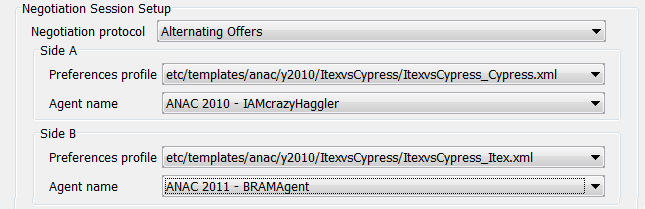
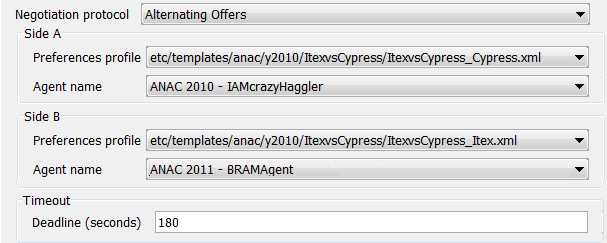
Finished first three sections

diff --git a/doc/userguide.tex b/doc/userguide.tex
@@ -292,7 +292,7 @@ This section discusses how to run a negotiation. There are three main modes to r
 	\item \textbf{Distributed tournament}. A distributed tournament is a tournament which is stored in a database and can therefore be divided among multiple computers to speed up calculation.
 \end{itemize}
 
-Before going into detail on how each of these modes work, we first discuss the two types of agents which can be used: automated agents and non-automated agents. Automated agents are agents which can compete against other agents in a negotiation without relying on input by a user. In general, these agents are able to make a large amount of bids in a limited amount of time.
+Before going into detail on how each of these modes work, we first discuss the two types of agents that can be used: automated agents and non-automated agents. Automated agents are agents that can compete against other agents in a negotiation without relying on input by a user. In general, these agents are able to make a large amount of bids in a limited amount of time.
 
 In contrast, non-automated agents are agents that are fully controlled by the user. These types of agents ask the user each round which action they should make. \Genius~by default includes the UIAgent -- which has a simple user interface -- and the more extensive Extended UIAgent.
 
@@ -301,57 +301,64 @@ In contrast, non-automated agents are agents that are fully controlled by the us
 To run a negotiation session select ``Start'' and then ``Negotiation Session''. This opens a window similar to Figure~\ref{Fig:session}. The following parameters need to be specified to run a negotiation:
 \begin{itemize}
 	\item \textbf{Negotiation protocol}. The set of available protocols. Normally ``Alternating Offers'' is used.
-	\item \textbf{Side A/Side B}. The configuration of both agents which negotiate against each other.
+	\item \textbf{Side A/Side B}. The configuration of the agents of both sides.
 	\item \textbf{Preference profile}. The preference profile to be used by the agent of that side.
-	\item \textbf{Agent name}. The agent which should participate in the negotiation.
+	\item \textbf{Agent name}. The agent participating in the negotiation.
+	\item \textbf{Deadline (seconds)}. The length of the negotiation in seconds.
 \end{itemize}
 
-\begin{figure}[htb]
+\begin{figure}[h!]
 	\centering
-	\includegraphics[width=0.6\textwidth]{media/image11.png}
+	\includegraphics[width=0.65\textwidth]{media/image11.png}
 \caption{A negotiation session.}\label{Fig:session}
 \end{figure}
 
 
 \subsection{Running a Tournament}\label{sec:runningTournament}
-Besides running a single negotiation session, it is also possible to run a tournament. A tournament can be seen as a collection of sessions. In contrast to running a single session, the results of a tournament are stored in the ``log'' directory. These results can be easily analyzed by importing them into Excel an using pivot tables (cf. Section~\ref{sec:analysisExcel}). A tournament can be created by first selecting ``Start'' and then ``Tournament''. The Tournament tab will appear similar to Figure~\ref{Fig:tournament}. This window shows a set of options which we need to specify. The value of an option can be specified by double clicking the option in the ``Values'' column.
+Besides running a single negotiation session, it is also possible to run a tournament. A tournament can be seen as a collection of sessions. In contrast to running a single session, the results of a tournament are stored in the ``log'' directory. These results can be easily analyzed by importing them into Excel (cf. Section~\ref{sec:analysisExcel}). A tournament can be created by first selecting ``Start'' and then ``Tournament''. The Tournament tab will appear similar to Figure~\ref{Fig:tournament}. This window shows a set of options which we need to specify. The value of an option can be specified by double clicking the option in the ``Values'' column.
 
 
 \begin{figure}[htb]
 	\centering
-	\includegraphics[width=0.8\textwidth]{media/image16.png}
+	\includegraphics[width=0.9\textwidth]{media/image16.png}
 \caption{Tournament tab.}\label{Fig:tournament}
 \end{figure}
 
 \begin{itemize}
-	\item \textbf{Protocol}. The set of available protocols. Normally ``Alternating Offers'' is used.
+	\item \textbf{Protocol}. The set of available protocols.
 	\item \textbf{Preference profiles}. The set of scenarios on which the agents should compete. Each selected scenario should feature at least two preference profiles.
 	\item \textbf{Agent side A/B}. The set of agents in set A competes against all agents in set B.
 	\item \textbf{Number of sessions}. The number of times each match should be repeated.
 	\item \textbf{Tournament options}. Options which specify how to run the tournament (see below).
-	\item \textbf{BOA Agent side A/B}. Type of agents which consist of multiple components (see~Section~\ref{sec:boa}).
+	\item \textbf{BOA Agent side A/B}. Type of agents that consist of multiple components (see~Section~\ref{sec:boa}).
 \end{itemize}
 
-In contrast to the negotiation session mode, a large set of tournament options can be specified which influence the composition and running of the tournament. There are four categories of options:
-{ \huge Update me }
+A large set of tournament options can be specified which influence the composition and running of the tournament. There are four categories of options:
+
 \begin{itemize}
 	\item \textsc{Protocol settings}
 	\begin{itemize}
 		\item \textbf{Protocol mode}. Specifies if the negotiation features rounds or time. In a time-based negotiation there is an amount of time to reach an agreement. Time passes while an agent deliberates an action. In contrast, in a rounds-based negotiation the deadline is specified in rounds. An agent can take more time to compute an action as time does not pass within a round.
-		\item \textbf{Deadline}. Depending on the protocol mode, this is the maximum amount of time in seconds or amount of rounds. Note that a single round corresponds to the turn of a single agent.
+		\item \textbf{Deadline}. Depending on the protocol mode, this is the maximum amount of time in seconds or amount of rounds. Note that one single round corresponds to one turn of a single agent.
+		\item \textbf{Access partner preferences}.
+		\item \textbf{Allow pausing timeline}.
 	\end{itemize}
 	\item \textsc{Session generation}
 	\begin{itemize}
-		\item \textbf{Play both sides}. When generating the matches, should each pair of agents play both sides on a scenario or not.
+		\item \textbf{Play both sides}. When generating the matches, whether each pair of agents should play both sides on a scenario or not.
 		\item \textbf{Play against self}. An agent may be included both in the set Agent side A and side B. If this option is enabled an agent is allowed to play against itself. If disabled, the matches in which agents negotiate against themselves are removed.
 	\end{itemize}
 	\item \textsc{Logging}
 	\begin{itemize}
 		\item \textbf{Log detailed analysis}. Enabling this option activates a set of quality measures to capture the quality of the negotiation process. The quality measures are added to the default log. In addition, for the whole tournament an overview log is created. This log is prefixed with ``TM-''.
+
+		\item \textbf{Log final accuracy}.
+		\item \textbf{Log competitiveness}.
+		\item \textbf{Append mode and deadline}.
 	\end{itemize}
 	\item \textsc{Visualization}
 	\begin{itemize}
-		\item \textbf{Show all bids}. When enabled all bids in a scenario are visualized as red points in the negotiation status window. This option has a minor impact on performance.
+		\item \textbf{Show all bids}. When enabled all bids in a scenario are visualized as red points in the negotiation status window. This option has some impact on performance.
 		\item \textbf{Show last bid}. When enabled the last bid is marked with a special symbol to make it clear which move an agent performed. This has a negligible impact on performance.
 		\item \textbf{Disable GUI}. When enabled most GUI elements are disabled. This speeds-up the negotiation up to a factor of 200 times. The progress of the tournament is printed to the console.
 	\end{itemize}
@@ -640,7 +647,7 @@ This section provides an overview of classes which might be useful when implemen
 \item \textbf{BidIterator} is a class used to enumerate all possible bids. Also see \textit{SortedOutcomeSpace}.
 \item \textbf{Pair} is a simple pair of two objects.
 \item \textbf{Range} is a structure used to describe a continuous range.
-\item \textbf{SortedOutcomeSpace} is a structure which stores all possible bids and their utilities. This class implements efficient search algorithms which can be used to efficiently search the space of possible bids for bids satisfying specific properties.
+\item \textbf{SortedOutcomeSpace} is a structure which stores all possible bids and their utilities. This class implements efficient search algorithms that can be used to efficiently search the space of possible bids for bids satisfying specific properties.
 \item \textbf{UtilitySpace} is a representation of a preference profile. It is recommended to use this class when implementing a model of the opponent's preference profile.
 \end{itemize}
 
